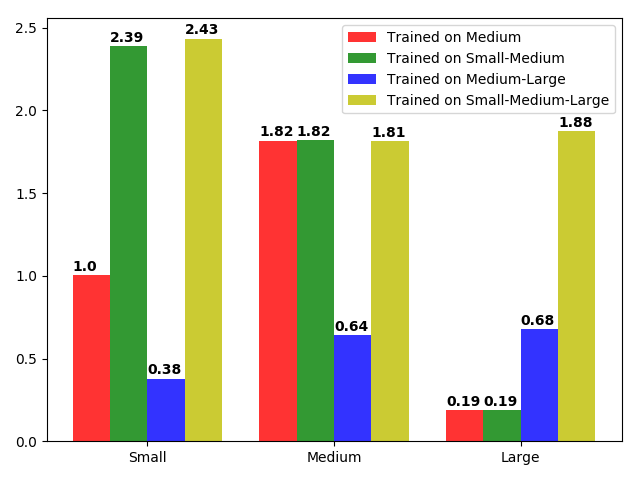
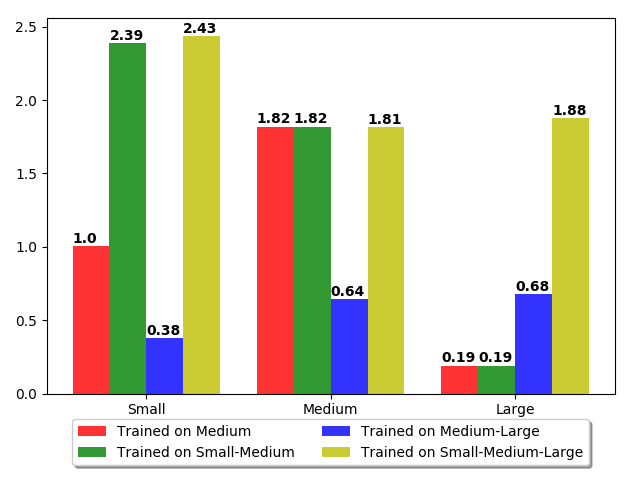
better graphs

diff --git a/benchmarks/nn.py b/benchmarks/nn.py
@@ -14,18 +14,16 @@ avgOld = [ [7844, 8698, 7762, 8970, 7761],
 std = [np.sum(avgStd[0])/5.0, 
        np.sum(avgStd[1])/5.0]
 
-our = (std[0]/(np.sum(avgOur[0])/5.0),
-       std[1]/(np.sum(avgOur[1])/5.0)) 
-old = (std[0]/(np.sum(avgOld[0])/5.0),
-       std[1]/(np.sum(avgOld[1])/5.0))
+our = std[1]/(np.sum(avgOur[1])/5.0) 
+old = std[1]/(np.sum(avgOld[1])/5.0)
 # data to plot
 
-n_groups = 2
+n_groups = 1
 
 # create plot
 fig, ax = plt.subplots()
 index = np.arange(n_groups)
-bar_width = 0.4
+bar_width = 0.1
 opacity = 0.8
 
 rects1 = plt.bar(index, our, bar_width,
@@ -40,13 +38,12 @@ label='Exsisting tuner')
 
 plt.xlabel('Dataset')
 plt.ylabel('Speedup')
-plt.xticks(index+bar_width/2, ('D1', 'D2'))
-plt.legend()
-for i, v in enumerate(our):
-  ax.text(i, v+0.8, str(round(v,2)), color='black', va='center', fontweight='bold')
-for i, v in enumerate(old):
-  ax.text(i+bar_width, v+0.8, str(round(v,2)), color='black', va='center', fontweight='bold')
-
+plt.xticks(index+bar_width/2, ('D2'))
+ax.text(0, our+0.8, str(round(our,2)), color='black', va='center', 
+        fontweight='bold')
+ax.text(bar_width, old+0.8, str(round(old,2)), color='black', 
+        va='center', fontweight='bold')
+ax.legend(loc='upper center', bbox_to_anchor=(0.5, -0.05), shadow=True, ncol=2)
 plt.tight_layout()
 plt.savefig("nn.png")
 plt.show()

diff --git a/benchmarks/LocVolCalib.py b/benchmarks/LocVolCalib.py
@@ -46,7 +46,8 @@ label='Exsisting tuner')
 plt.xlabel('Dataset')
 plt.ylabel('Speedup')
 plt.xticks(index + bar_width/2, ('Small', 'Medium', 'Large'))
-plt.legend()
+ax.legend(loc='upper center', bbox_to_anchor=(0.5, -0.05), shadow=True, ncol    =2)
+
 
 for i, v in enumerate(ourCalib):
     ax.text(i-0.05, v+0.05, str(round(v,2)), color='black', va='center', fontweight='bold')

diff --git a/benchmarks/backprop.py b/benchmarks/backprop.py
@@ -43,7 +43,8 @@ label='Exsisting tuner')
 plt.xlabel('Dataset')
 plt.ylabel('Speedup')
 plt.xticks(index+bar_width/2, ('H1', 'H2'))
-plt.legend()
+ax.legend(loc='upper center', bbox_to_anchor=(0.5, -0.05), shadow=True, ncol    =2)
+
 for i, v in enumerate(our):
     ax.text(i, v+v/50, str(round(v,2)), color='black', va='center', fontweight='bold')
 for i, v in enumerate(old):

diff --git a/benchmarks/matmul.py b/benchmarks/matmul.py
@@ -43,7 +43,8 @@ label='Exsisting tuner')
 plt.xlabel('Dataset')
 plt.ylabel('Speedup')
 plt.xticks(index+bar_width/2, ('F1', 'F2'))
-plt.legend()
+ax.legend(loc='upper center', bbox_to_anchor=(0.5, -0.05), shadow=True, ncol    =2)
+
 for i, v in enumerate(our):
     ax.text(i, v+v/50, str(round(v,2)), color='black', va='center', fontweight='bold')
 for i, v in enumerate(old):

diff --git a/benchmarks/LocVolCalibAll.py b/benchmarks/LocVolCalibAll.py
@@ -78,7 +78,8 @@ for i, v in enumerate(smlCalib):
   ax.text(i+bar_width*3-0.1, v+0.05, str(round(v,2)), color='black', va='center', fontweight='bold')
 
 plt.xticks(index + bar_width*1.5, ('Small', 'Medium', 'Large'))
-plt.legend()
+ax.legend(loc='upper center', bbox_to_anchor=(0.5, -0.05), shadow=True, ncol    =2)
+
 
 plt.tight_layout()
 plt.savefig("LocVolCalibAll.png")
